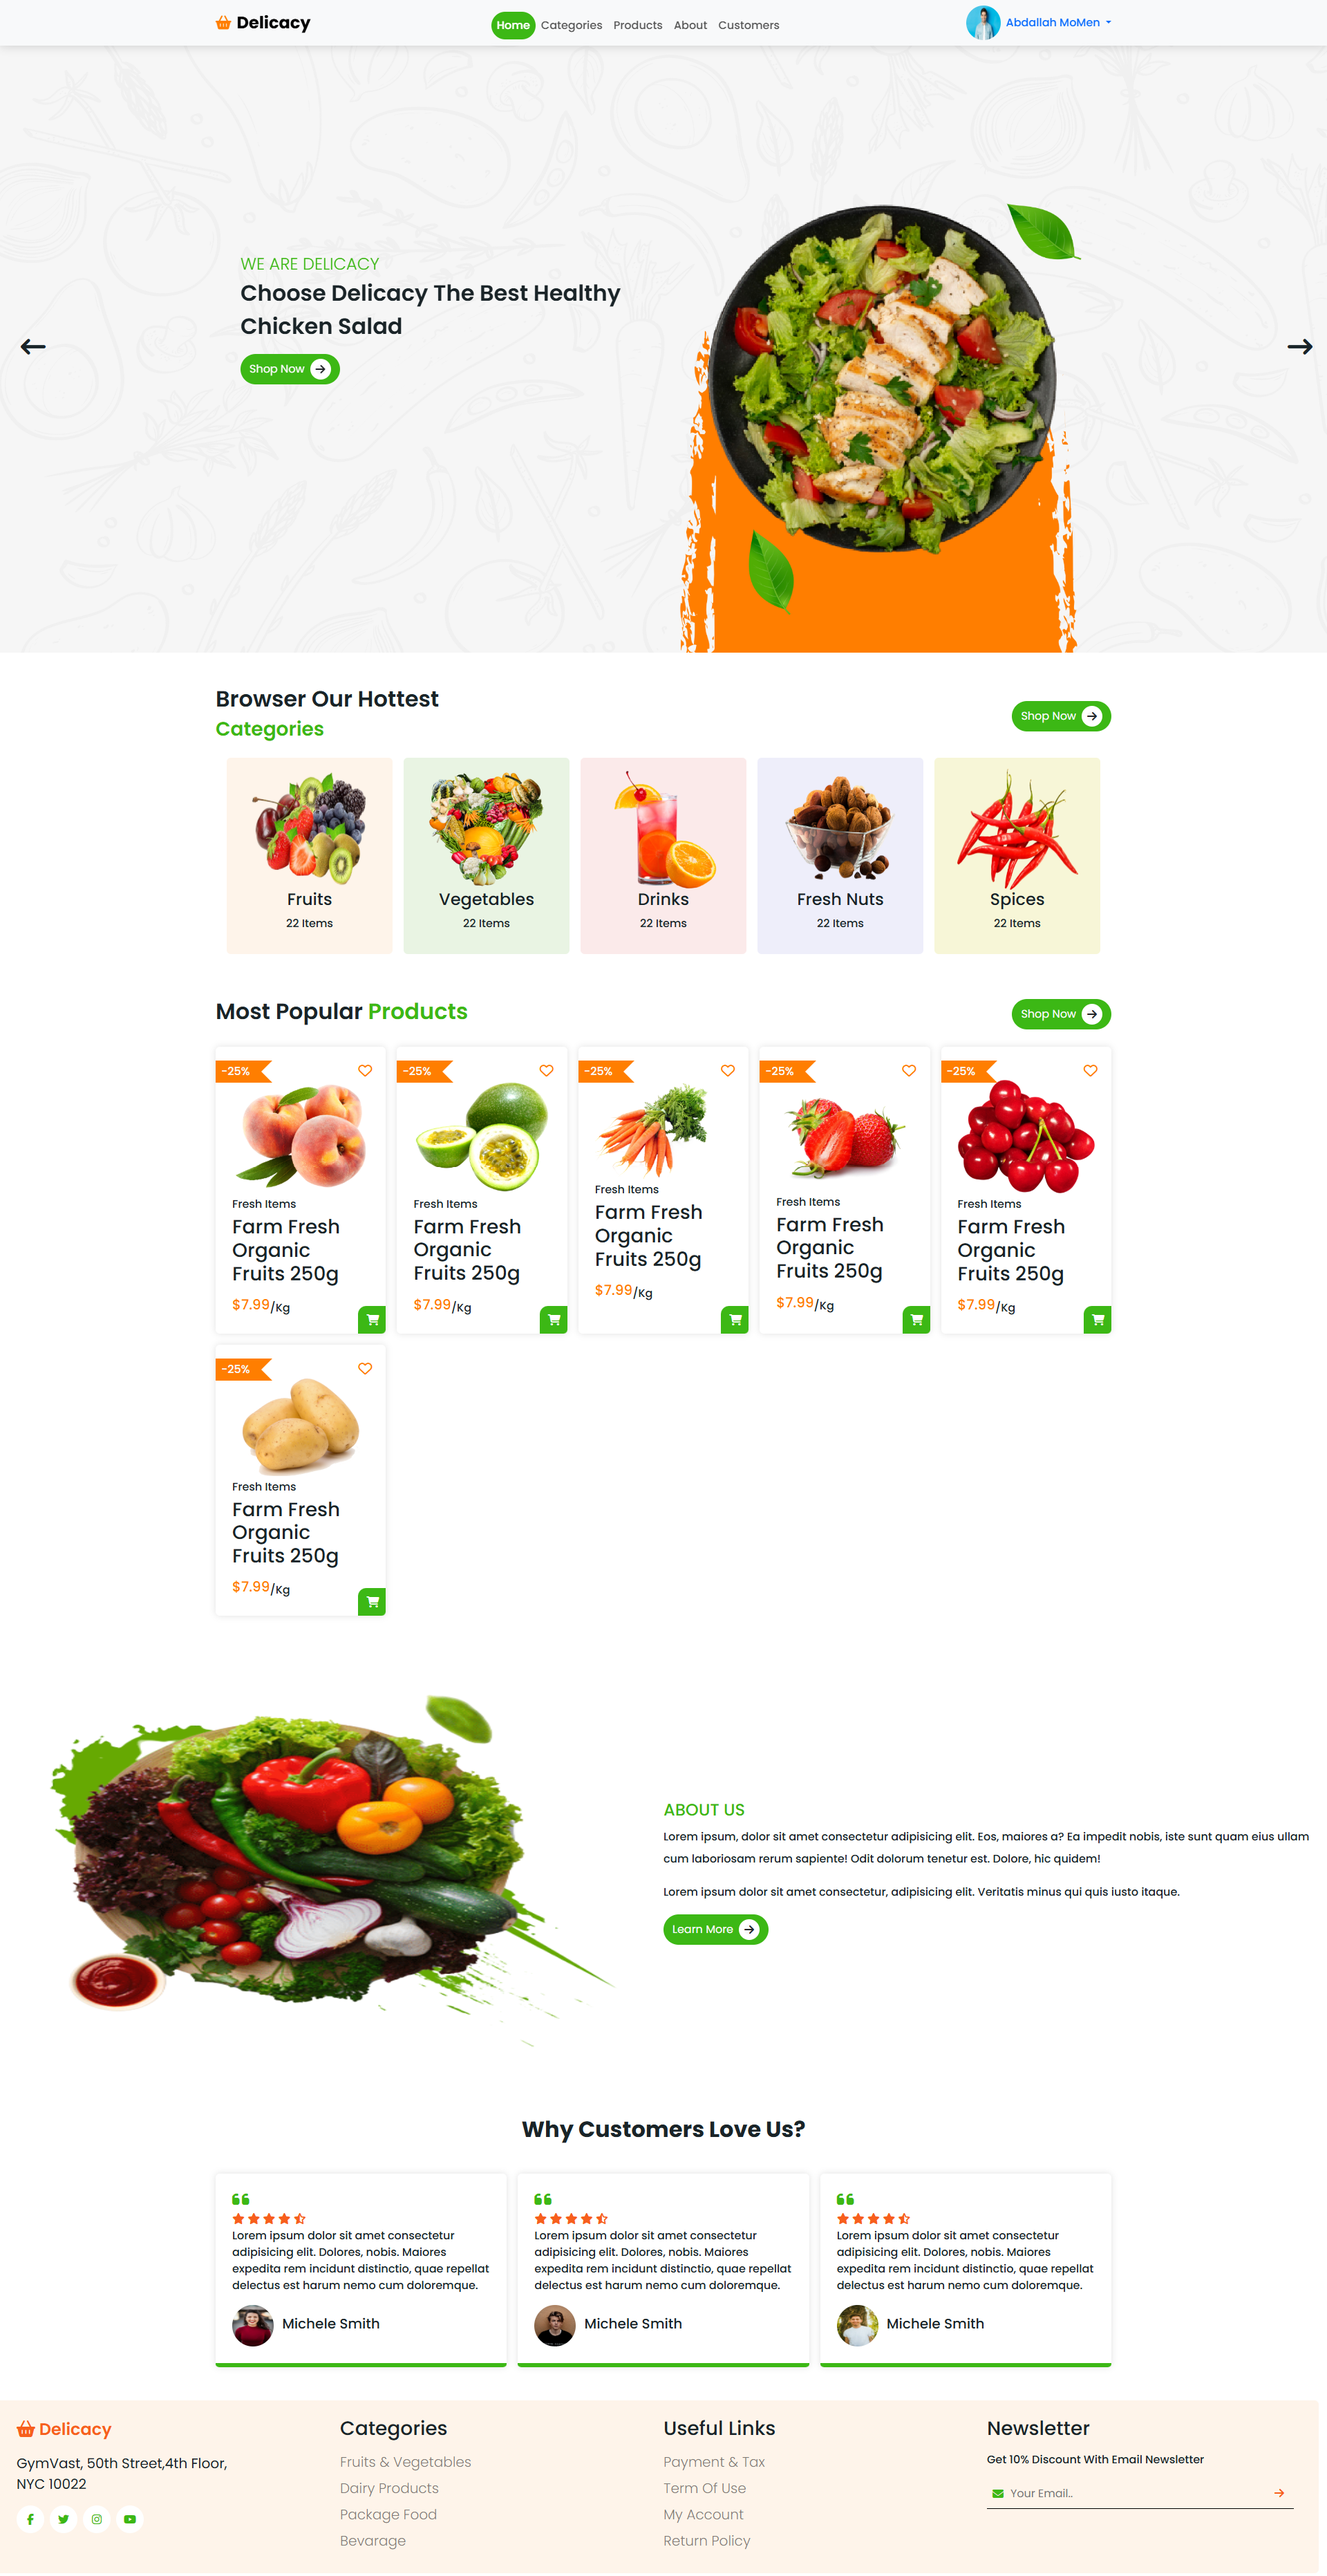
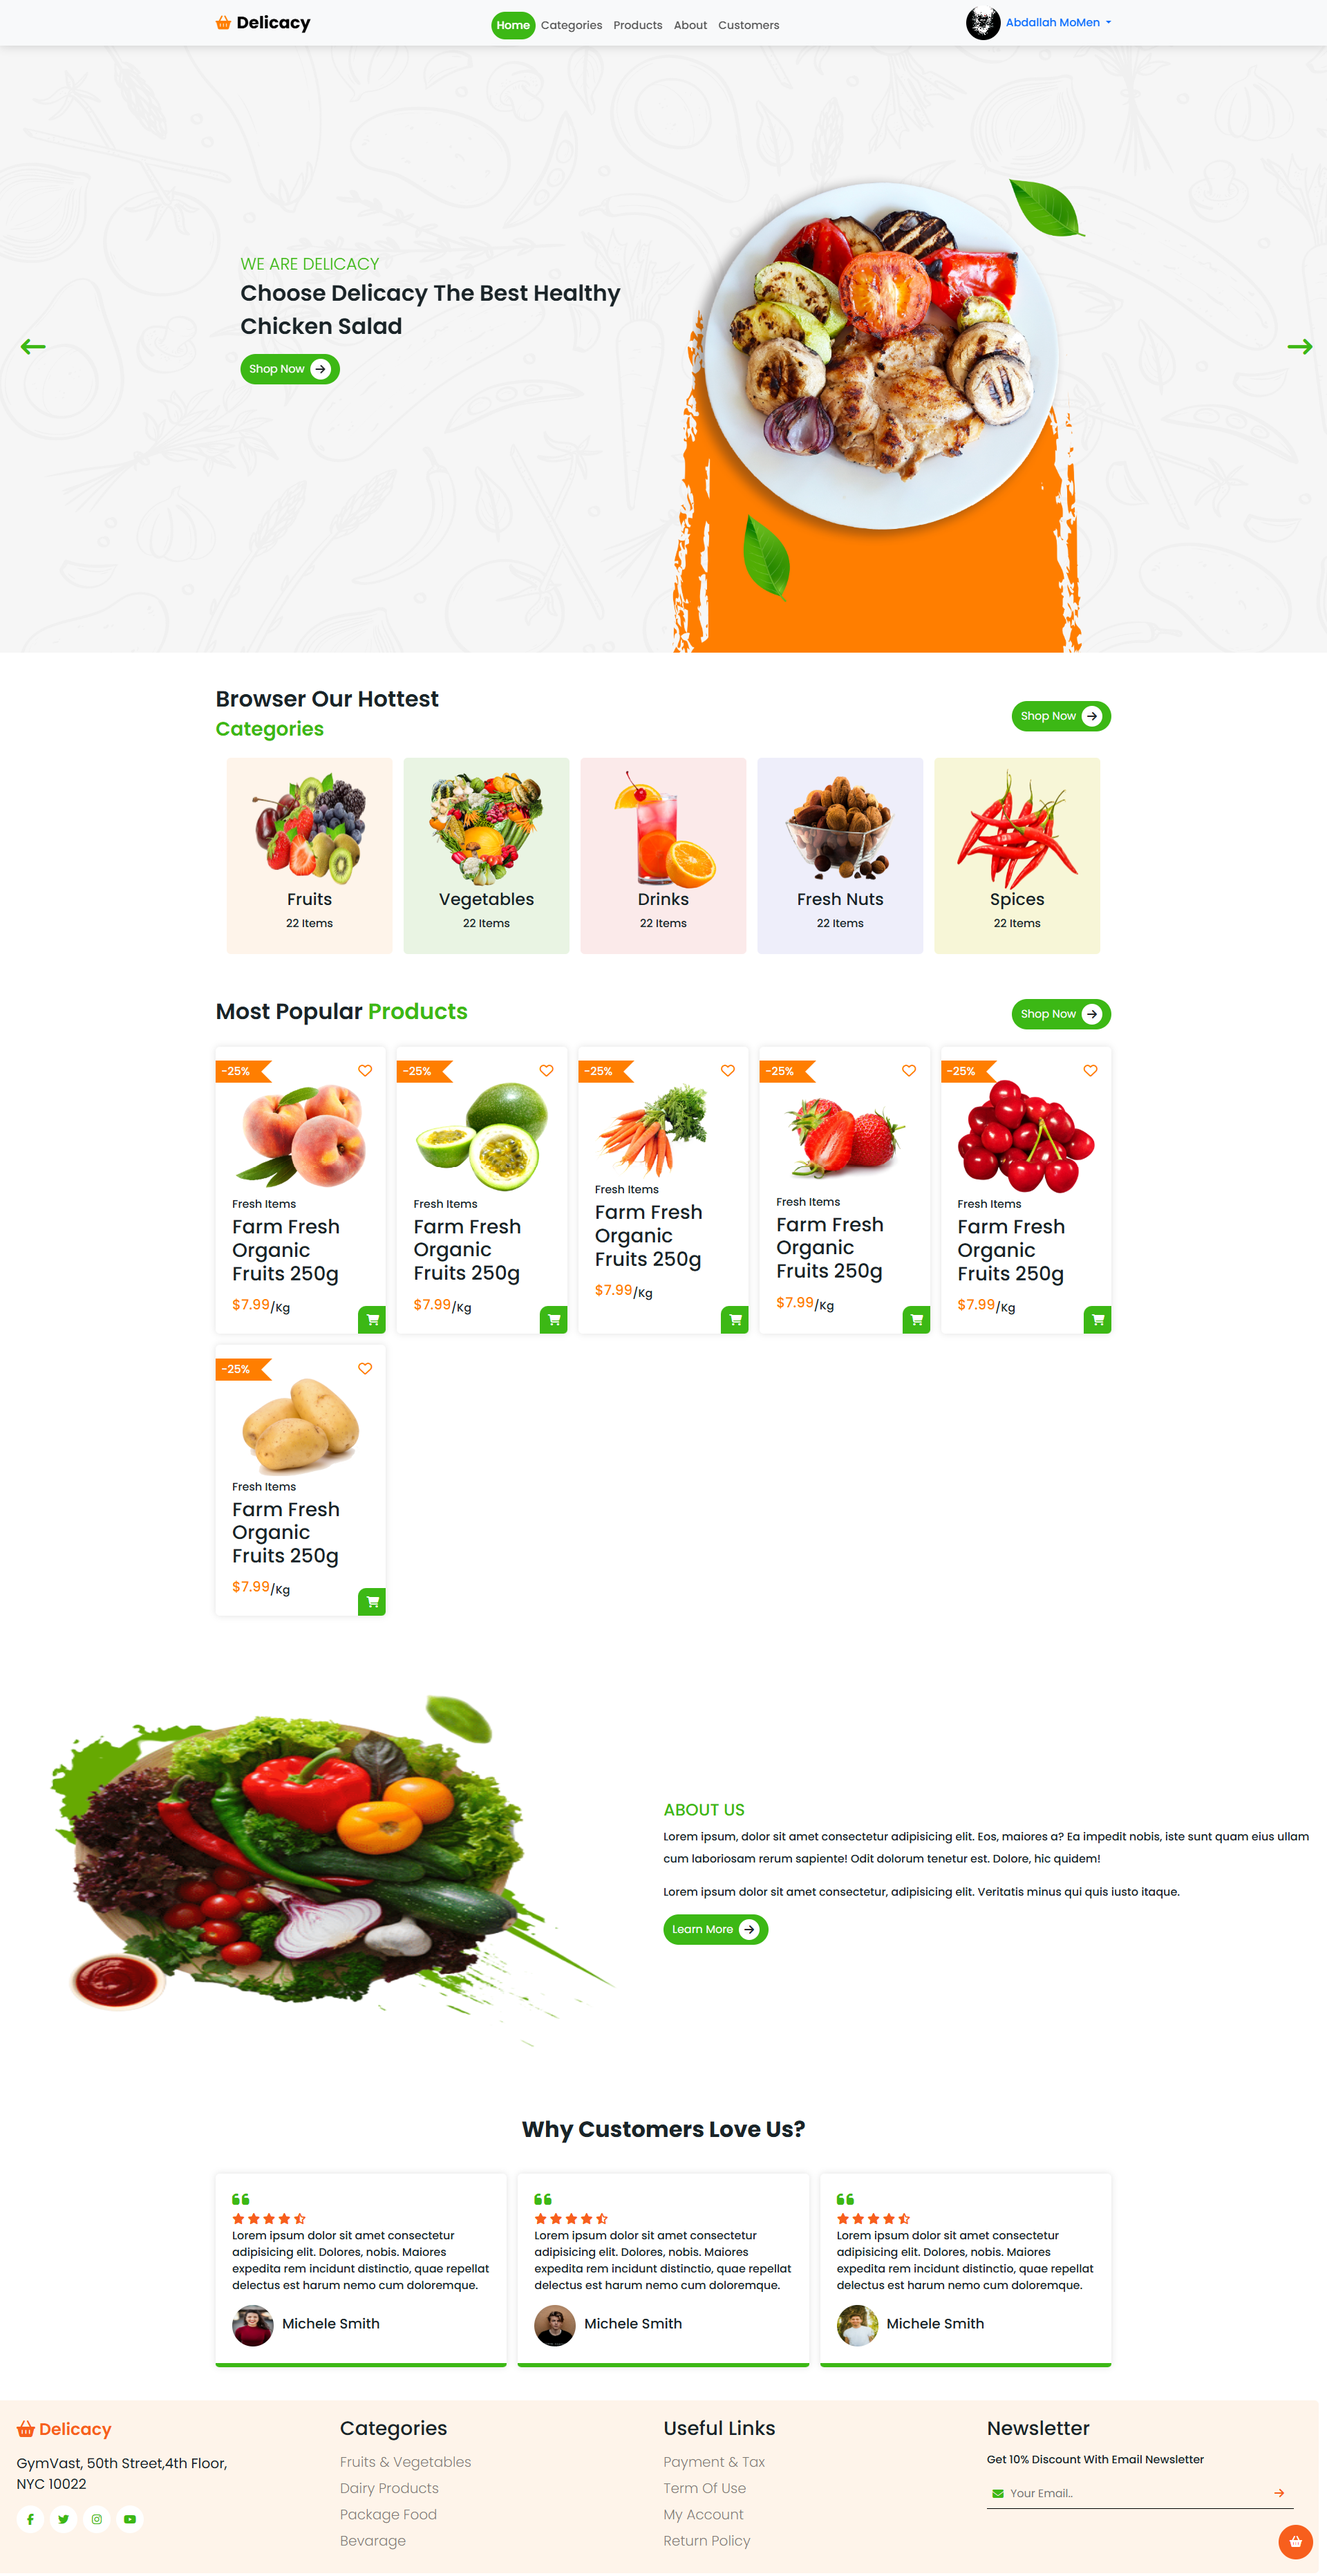
Finished Untill New update

Changed region(s): [[0.5, 0.0623, 0.8125, 0.2491], [0.9688, 0.9651, 1.0, 0.9962], [0.7188, 0.0, 0.75, 0.0311]]

diff --git a/index.html b/index.html
@@ -19,7 +19,7 @@
     <!-- ========== NavBar Section ========== -->
 
     <nav class="navbar navbar-expand-lg d-flex sticky-top bg-light">
-      <div class="container">
+      <div class="container position-relative">
         <div class="logo d-flex align-items-center">
           <i class="fa-solid fa-basket-shopping fs-5 me-1"></i>
           <a class="fs-4 fw-bold text-capitalize ms-1" href="./index.html"
@@ -92,18 +92,19 @@
               aria-expanded="false">
               Abdallah MoMen
             </a>
-            <ul class="dropdown-menu">
+            <ul class="dropdown-menu border-0">
               <li>
-                <a class="dropdown-item trans-03" href="#">Action</a>
+                <a class="dropdown-item trans-03" href="#">Profile</a>
               </li>
               <li>
-                <a class="dropdown-item trans-03" href="#">Another action</a>
+                <a class="dropdown-item trans-03" href="#">Cart</a>
+              </li>
+              <li>
+                <a class="dropdown-item trans-03" href="#">Setting</a>
               </li>
               <li><hr class="dropdown-divider" /></li>
               <li>
-                <a class="dropdown-item trans-03" href="#"
-                  >Something else here</a
-                >
+                <a class="dropdown-item trans-03" href="#">Contact us</a>
               </li>
             </ul>
           </div>
@@ -115,7 +116,7 @@
 
     <!-- ========== Home Section ========== -->
 
-    <section class="home position-relative" id="home">
+    <section class="home position-relative z-2" id="home">
       <div class="container pt-5 px-5 overflow-hidden">
         <div class="swiper-wrapper">
           <div class="swiper-slide">
@@ -609,6 +610,36 @@
         </div>
       </div>
     </footer>
+
+    <div class="shopping-cart d-flex gap-3 position-fixed z-3 p-3 trans-03">
+      <div class="head d-flex align-items-center justify-content-between gap-3">
+        <i
+          class="fa-solid fa-x rounded-circle d-flex justify-content-center align-items-center"></i>
+        <span class="text-capitalize text-uppercase fw-semibold fs-4"
+          >cart details</span
+        >
+        <span
+          class="items-count text-capitalize d-flex align-items-center justify-content-center rounded-circle"
+          >0</span
+        >
+      </div>
+      <div class="content text-center flex-grow-1 p-2 text-capitalize">
+        there are no items in your cart
+      </div>
+      <div class="foot d-flex gap-4 align-items-center rounded-3 p-3 fs-5">
+        <i class="fa-solid fa-basket-shopping text-light"></i>
+        <span class="text-uppercase text-center text-light fw-semibold"
+          >checkout</span
+        >
+        <div class="price text-light fw-semibold">
+          EGP <span class="current-price">00.00</span>
+        </div>
+      </div>
+    </div>
+
+    <button class="cart-button position-fixed z-2 rounded-circle">
+      <i class="fa-solid fa-basket-shopping"></i>
+    </button>
 
     <!-- ========== Footer Section ========== -->
 

diff --git a/css/style.css b/css/style.css
@@ -100,6 +100,15 @@ ul {
   color: #000;
 }
 
+.navbar-toggler:focus {
+  box-shadow: none;
+}
+
+.navbar-toggler.clicked {
+  box-shadow: 0 0 10px var(--light-orange-color),
+    0 0 15px var(--light-orange-color);
+}
+
 .navbar .navbar-collapse {
   flex-grow: 0;
 }
@@ -115,6 +124,11 @@ ul {
   height: 50px;
   object-fit: cover;
   object-position: center;
+}
+
+.navbar .dropdown-menu {
+  top: calc(100% + 19px);
+  box-shadow: 0 0 5px rgba(0, 0, 0, 7%), 0 0 10px rgba(0, 0, 0, 12%);
 }
 
 /* ========== NavBar Section ========== */
@@ -135,6 +149,7 @@ ul {
 .home .slide {
   cursor: grab;
 }
+
 .home .swiper-pagination-bullet {
   background-color: transparent;
   border: 2px solid var(--green-color);
@@ -142,9 +157,11 @@ ul {
   width: 16px;
   height: 16px;
 }
+
 .home .swiper-pagination-bullet-active {
   background-color: var(--green-color);
 }
+
 .home .swiper-button-next::after,
 .home .swiper-button-prev::after {
   font-family: "Font Awesome 6 Free";
@@ -153,14 +170,17 @@ ul {
   font-size: 36px;
   color: var(--green-color);
 }
+
 .home .swiper-button-next::after {
   content: "\f178";
   margin-inline: -20px;
 }
+
 .home .swiper-button-prev::after {
   content: "\f177";
   margin-inline: 20px;
 }
+
 .home .home-text {
   padding-top: 125px;
 }
@@ -170,6 +190,7 @@ ul {
     margin-top: 0;
     height: 100%;
   }
+
   .home .home-text {
     padding-top: 0;
     margin-bottom: 20px;
@@ -291,6 +312,7 @@ ul {
 .about .container-fluid {
   grid-template-columns: repeat(auto-fit, minmax(290px, 1fr));
 }
+
 .about img {
   width: 100%;
   object-position: center;
@@ -344,6 +366,7 @@ footer .logo {
   color: var(--light-orange-color);
   font-size: 24px;
 }
+
 footer .social a {
   background-color: #fff;
   width: 40px;
@@ -356,9 +379,11 @@ footer .social a {
 footer .social a:hover {
   background-color: var(--green-color);
 }
+
 footer .social a i {
   color: var(--green-color);
 }
+
 footer .social a:hover i {
   color: #fff;
 }
@@ -387,4 +412,55 @@ footer button {
   background-color: transparent;
   color: var(--light-orange-color);
 }
+
 /* ========== Footer Section ========== */
+
+/* ========== Cart Section ========== */
+
+.shopping-cart {
+  background-color: #fff;
+  min-height: calc(100vh - 66px);
+  top: 66px;
+  right: -100%;
+  flex-direction: column;
+}
+
+.shopping-cart.visible {
+  right: 0;
+}
+
+.shopping-cart .head i {
+  cursor: pointer;
+  width: 40px;
+  height: 40px;
+  color: darkred;
+  font-size: 20px;
+}
+
+.shopping-cart .items-count {
+  width: 40px;
+  height: 40px;
+  background-color: var(--light-orange-color);
+  color: #000;
+}
+
+.shopping-cart .foot {
+  background-color: var(--light-orange-color);
+  cursor: pointer;
+}
+
+.shopping-cart .foot i {
+  font-size: 22px;
+}
+
+.cart-button {
+  width: 50px;
+  height: 50px;
+  right: 20px;
+  bottom: 20px;
+  border: none;
+  color: #fff;
+  background-color: var(--light-orange-color);
+}
+
+/* ========== Cart Section ========== */

diff --git a/js/script.js b/js/script.js
@@ -21,4 +21,11 @@ $(document).ready(function () {
   $(".like i").on("click", function () {
     $(this).toggleClass("fa-solid");
   });
+
+  $(".navbar-toggler").on("click", function () {
+    $(this).toggleClass("clicked");
+  });
+  $(".shopping-cart i, .cart-button").on("click", function () {
+    $(".shopping-cart").toggleClass("visible");
+  });
 });
